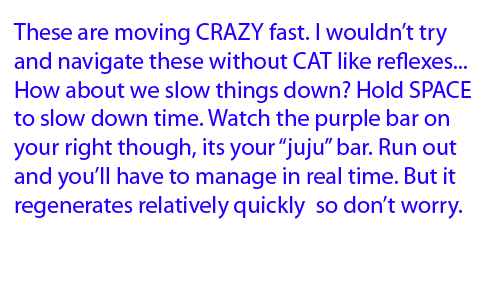
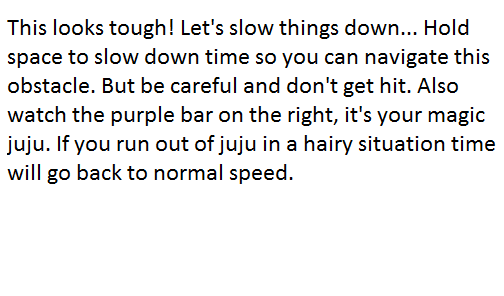
After Playtesting

Changed region(s): [[0.0, 0.0608, 0.99, 0.4257], [0.0, 0.4561, 0.99, 0.7297]]

diff --git a/PhysicsForDummies/NerdFestGame/Source/Player.cpp b/PhysicsForDummies/NerdFestGame/Source/Player.cpp
@@ -48,10 +48,17 @@ bool Player::canFireGrapplingHook(){
 }
 bool Player::tick(float timestep, GameWorld* e){
 	if(dmgfx>0)dmgfx--;
-	if (m_hp<=0 && m_deathframes++>500)
+	if (m_hp<=0)
 	{
-		//e->close();
-		//return false;
+		getBody()->position.x = -50;
+		getBody()->position.y = -15;
+		getBody()->velocity.x = 0;
+		getBody()->velocity.y = 0;
+		getBody()->rotation = 0;
+		getBody()->angularVelocity = 0;
+		m_hp = 100;
+		if(grappleHook)
+			this->grappleHook->release();
 	}
 
 	if (createMissile){
@@ -253,6 +260,44 @@ void Player::render(RenderList* lst){
 	renderPsychicBar(lst);
 	renderHealthBar(lst);
 	body* b = getBody();
+	RenderItem* itm = lst->getItem();
+	itm->myType = DrawType::texture;
+	itm->x = -100;
+	itm->y = 10;
+	itm->rot = 0;
+	itm->zIndex = 0;
+	itm->tex.w = 100;
+	itm->tex.h = 60;
+	itm->tex.resID = 5;
+	itm->tex.t1 = itm->tex.t2 = 1;
+	itm->tex.s1 = itm->tex.s2 = 1;
+	lst->addItem(itm);
+
+	itm = lst->getItem();
+	itm->myType = DrawType::texture;
+	itm->x = 40;
+	itm->y = 10;
+	itm->rot = 0;
+	itm->zIndex = 0;
+	itm->tex.w = 100;
+	itm->tex.h = 60;
+	itm->tex.resID = 6;
+	itm->tex.t1 = itm->tex.t2 = 1;
+	itm->tex.s1 = itm->tex.s2 = 1;
+	lst->addItem(itm);
+
+	itm = lst->getItem();
+	itm->myType = DrawType::texture;
+	itm->x = 350;
+	itm->y = 10;
+	itm->rot = 0;
+	itm->zIndex = 0;
+	itm->tex.w = 100;
+	itm->tex.h = 60;
+	itm->tex.resID = 7;
+	itm->tex.t1 = itm->tex.t2 = 1;
+	itm->tex.s1 = itm->tex.s2 = 1;
+	lst->addItem(itm);
 	/*if (dmgfx > 0){
 		RenderItem* item = lst->getItem();
 		item->x = b->position.x;

diff --git a/PhysicsForDummies/NerdFestGame/Source/EnemyRiflesmen.cpp b/PhysicsForDummies/NerdFestGame/Source/EnemyRiflesmen.cpp
@@ -13,6 +13,7 @@ EnemyRiflesmen::EnemyRiflesmen(body* b) :Mob(0, b){
 	fire = 0;
 	target = NULL;
 	b->dataFlag |= ISENEMY;
+	m_hp = 100;
 }
 bool EnemyRiflesmen::tick(float timestep, GameWorld* e){
 	if (hasTarget()){
@@ -32,6 +33,8 @@ bool EnemyRiflesmen::tick(float timestep, GameWorld* e){
 	jump = 0;
 	getBody()->applyImpulse(vec2(rand()%10-5, 20));
 	}*/
+	if (m_hp < 0)
+		return false;
 	return Mob::tick(timestep, e);
 }
 void EnemyRiflesmen::fireMissile(GameWorld* e, float x, float y){

diff --git a/PhysicsForDummies/NerdFestGame/Source/GameEffects.cpp b/PhysicsForDummies/NerdFestGame/Source/GameEffects.cpp
@@ -9,6 +9,7 @@ void SmokeEffect::render(RenderList* lst){
 	itm->myType = solidcircle;
 	itm->x = x;
 	itm->y = y;
+	itm->zIndex = -1;
 	itm->circle.radius =  (float)dur / SMOKELENGTH*3.f + .4f;
 	itm->circle.a = .6f*(1.f- ((float)dur/SMOKELENGTH));
 	itm->circle.r = itm->circle.g = itm->circle.b = .6f- ((float)dur / SMOKELENGTH*.4f);

diff --git a/PhysicsForDummies/NerdFestGame/Source/Missile.cpp b/PhysicsForDummies/NerdFestGame/Source/Missile.cpp
@@ -49,6 +49,7 @@ void Missile::render(RenderList* lst){
 	{
 		item->myType = solidsquare;
 		item->square.a = item->square.r = item->square.g = item->square.b = 1.f;
+		item->zIndex = -1;
 		item->square.lw = 1;
 		item->square.w = ((box*)b->form)->halfwidth * 2;
 		item->square.h = ((box*)b->form)->halfheight * 2;

diff --git a/PhysicsForDummies/NerdFestGame/Source/Player.h b/PhysicsForDummies/NerdFestGame/Source/Player.h
@@ -14,7 +14,7 @@ public:
 	vec2 missileTo;
 	vec2 grapplingHookTo;
 	int createMissile, fireGrapplingHook, fire2ndGrapplingHook;
-	float mX, mY;
+	float mX, mY;	
 	float psychicPowerMeter;
 	bool mRenderProjectilePath;
 
